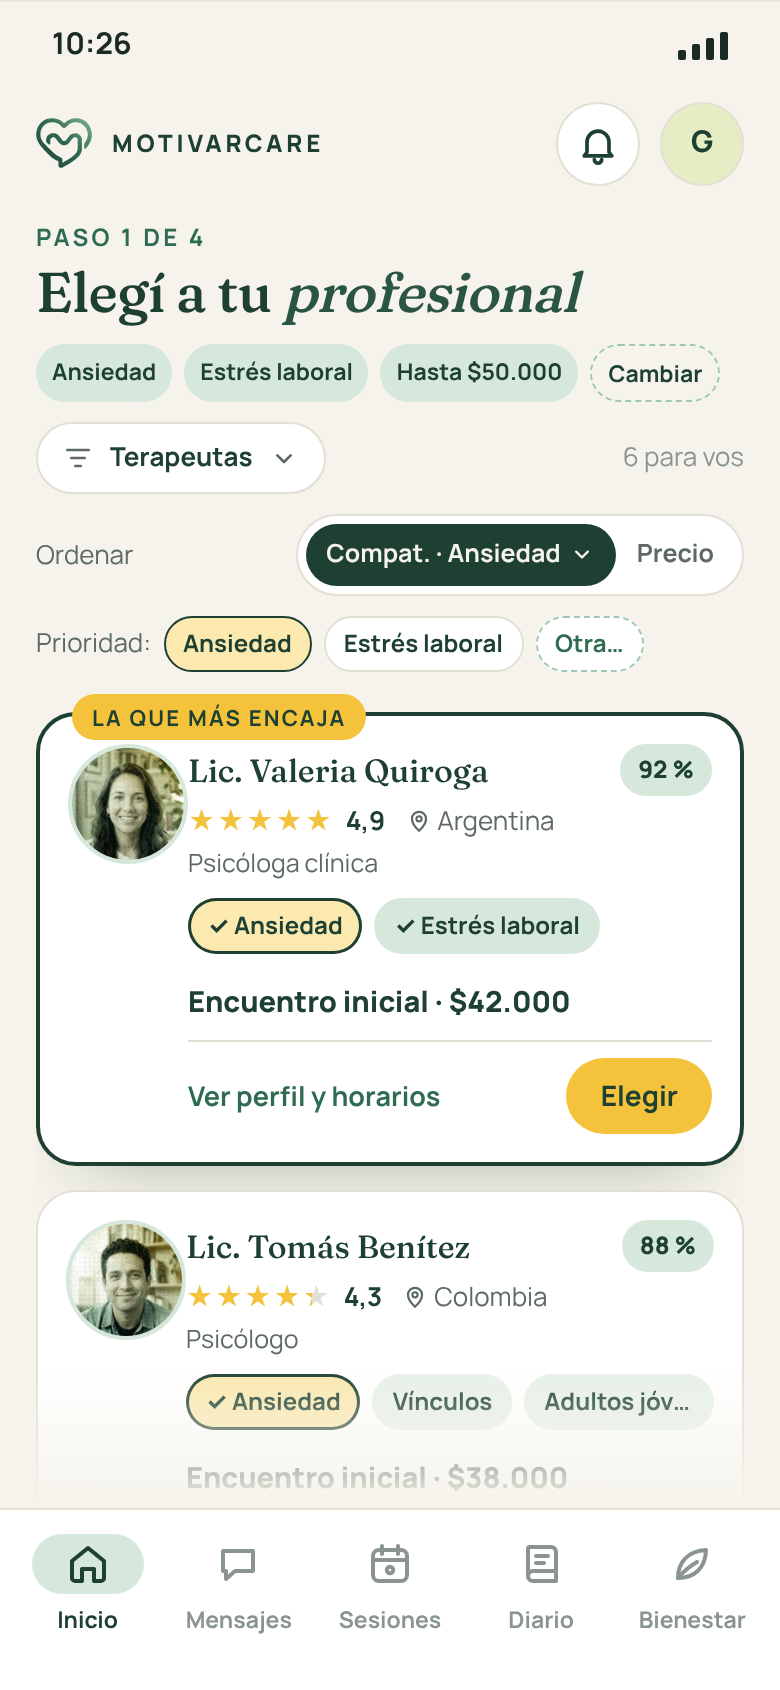
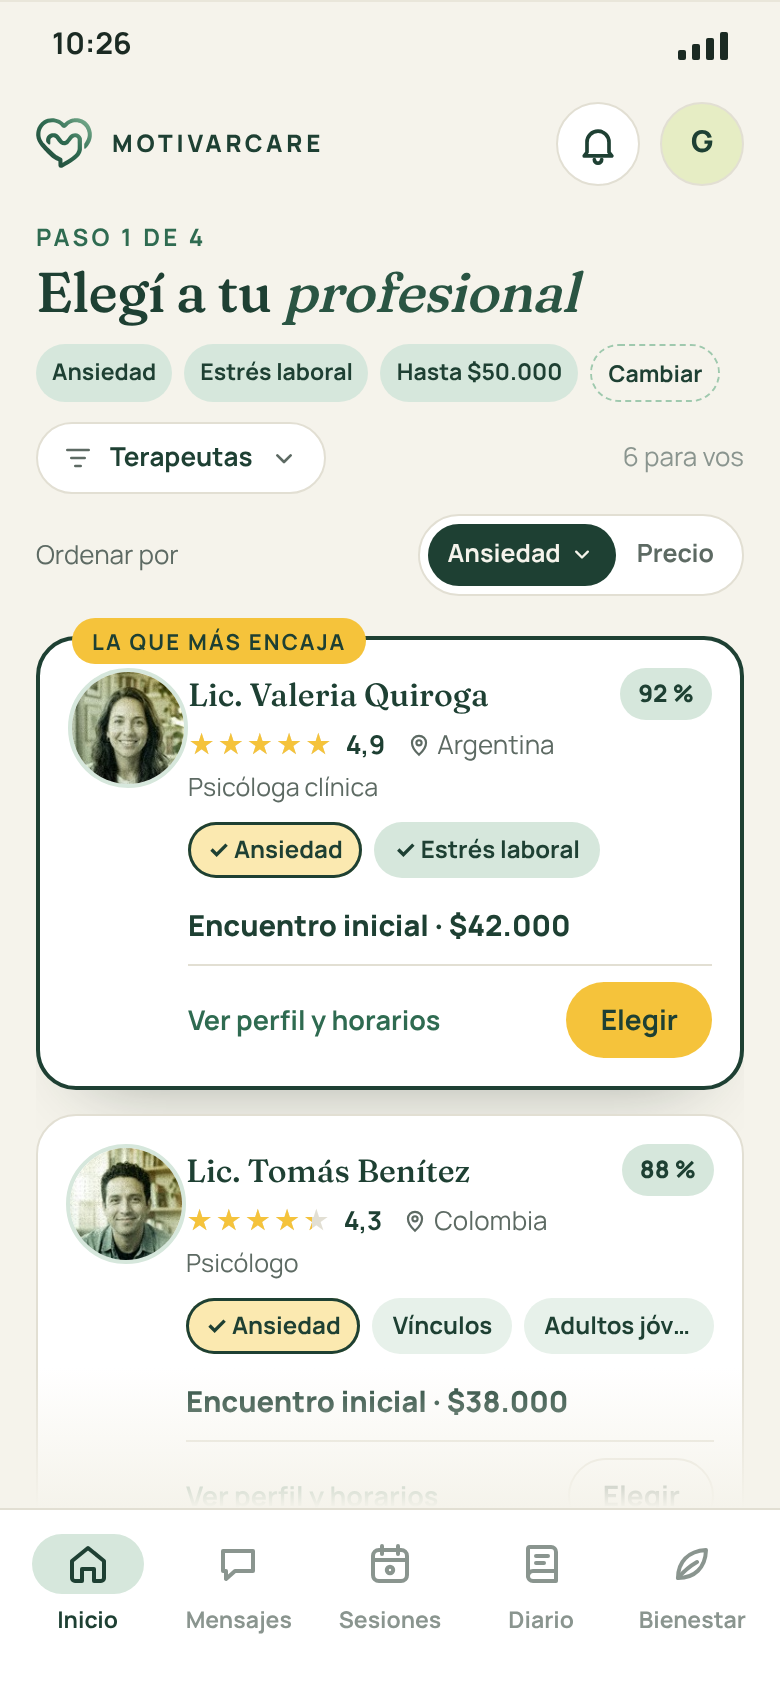
App del usuario: sin accesos directos; el control dice la especialidad
En los mockups 5 y 6 se sacan los accesos directos: el menú de
"Compatibilidad" es el único lugar para dar prioridad a una especialidad.
Por defecto dice "Compatibilidad" (con "Según todas tus respuestas"
elegido); con una especialidad elegida, dice su nombre ("Ansiedad").
En el teléfono, la etiqueta pasa a "Ordenar por".

Claude-Session: https://claude.ai/code/session_01WU1DRuLLvKJwMVuiPWLics

Changed region(s): [[0.0308, 0.3077, 0.9538, 0.8923], [0.5846, 0.8615, 0.7385, 0.8923]]

diff --git a/web/public/app-usuario/ronda-2.html b/web/public/app-usuario/ronda-2.html
@@ -1408,7 +1408,6 @@ ul.lista-simple { padding: 0; }
             <span class="orden-wrap"><span class="et-orden">Ordenar por</span><span class="el-orden"><span class="on">Compatibilidad<svg class="ico chico cl"><use href="#i-abajo"/></svg></span><span>Precio</span></span>
             </span>
           </div>
-          <div class="atajos-esp"><span class="et-orden">Dar prioridad a:</span><span class="atajo">Ansiedad</span><span class="atajo">Estrés laboral</span><span class="atajo otra">Otra…</span></div>
           <div style="position:relative"><div class="el-lista"><article class="tarjeta-pro mejor"><span class="mejor-et">La que más encaja</span><img class="avatar-pro" src="../landing/img/profesionales/valeria-quiroga.jpg" alt="" width="60" height="60">
   <div class="info">
     <div class="nombre"><b>Lic. Valeria Quiroga</b><span class="compat">92 %</span></div>
@@ -1492,8 +1491,7 @@ ul.lista-simple { padding: 0; }
     <div class="saludo" style="margin:0;gap:4px"><span class="t-fecha">Paso 1 de 4</span><h1 class="t1" style="font-size:28px">Elegí a tu <em>profesional</em></h1></div>
     <div class="el-tags" style="flex-wrap:nowrap"><span>Ansiedad</span><span>Estrés laboral</span><span>Hasta $50.000</span><span style="background:transparent;border:1.5px dashed var(--salvia-fuerte)">Cambiar</span></div>
     <div class="fila-ctl"><span class="filtro"><svg viewBox="0 0 24 24" class="ico chico"><path d="M4 6h16M7 12h10M10 18h4"/></svg><b>Terapeutas</b><svg class="ico chico"><use href="#i-abajo"/></svg></span><span class="tenue">6 para vos</span></div>
-    <div class="fila-ctl"><span class="et-orden">Ordenar</span><span class="el-orden"><span class="on">Compatibilidad<svg class="ico chico"><use href="#i-abajo"/></svg></span><span>Precio</span></span></div>
-    <div class="atajos-esp tel-atajos"><span class="et-orden">Prioridad:</span><span class="atajo">Ansiedad</span><span class="atajo">Estrés laboral</span><span class="atajo otra">Otra…</span></div>
+    <div class="fila-ctl"><span class="et-orden">Ordenar por</span><span class="el-orden"><span class="on">Compatibilidad<svg class="ico chico"><use href="#i-abajo"/></svg></span><span>Precio</span></span></div>
     <div class="el-lista-tel"><article class="tarjeta-pro mejor"><span class="mejor-et">La que más encaja</span><img class="avatar-pro" src="../landing/img/profesionales/valeria-quiroga.jpg" alt="" width="60" height="60">
   <div class="info">
     <div class="nombre"><b>Lic. Valeria Quiroga</b><span class="compat">92 %</span></div>
@@ -1540,7 +1538,7 @@ ul.lista-simple { padding: 0; }
 
 <section class="lamina">
 <h2>6 · Elegí a tu profesional en escritorio · compatibilidad con prioridad a una especialidad</h2>
-<p class="nota-r2">El mismo listado con prioridad a Ansiedad, elegida desde el menú de "Compatibilidad" (abierto) o desde los accesos directos. Sus terapeutas aparecen primero y los demás siguen debajo; el precio ordena a todos por igual.</p>
+<p class="nota-r2">El mismo listado después de elegir Ansiedad en el menú de "Compatibilidad" (abierto): el control pasa a decir "Ansiedad". Sus terapeutas aparecen primero y los demás siguen debajo. Al volver a "Según todas tus respuestas", el control vuelve a decir "Compatibilidad".</p>
 <div class="marco esc" id="r2-6-escritorio">
   <aside class="lateral">
     <div class="marca"><img src="../landing/img/logo.svg" alt="">MOTIVARCARE</div>
@@ -1567,7 +1565,7 @@ ul.lista-simple { padding: 0; }
           <div class="el-barra r2">
             <span class="filtro"><svg viewBox="0 0 24 24" class="ico chico"><path d="M4 6h16M7 12h10M10 18h4"/></svg>Mostrar: <b>Terapeutas</b><svg class="ico chico"><use href="#i-abajo"/></svg></span>
             <span class="tenue">6 terapeutas · todos con matrícula verificada</span>
-            <span class="orden-wrap"><span class="et-orden">Ordenar por</span><span class="el-orden"><span class="on">Compatibilidad · Ansiedad primero<svg class="ico chico cl"><use href="#i-abajo"/></svg></span><span>Precio</span></span>
+            <span class="orden-wrap"><span class="et-orden">Ordenar por</span><span class="el-orden"><span class="on">Ansiedad<svg class="ico chico cl"><use href="#i-abajo"/></svg></span><span>Precio</span></span>
               <div class="menu-esp">
                 <span class="menu-tit">Ordenar por compatibilidad</span>
                 <span class="op-esp"><i class="radio"></i><span><b>Según todas tus respuestas</b><small>Tiene en cuenta todo lo que nos contaste</small></span></span>
@@ -1583,7 +1581,6 @@ ul.lista-simple { padding: 0; }
               </div>
             </span>
           </div>
-          <div class="atajos-esp"><span class="et-orden">Dar prioridad a:</span><span class="atajo on">Ansiedad</span><span class="atajo">Estrés laboral</span><span class="atajo otra">Otra…</span></div>
           <div style="position:relative"><div class="el-lista"><article class="tarjeta-pro mejor"><span class="mejor-et">La que más encaja</span><img class="avatar-pro" src="../landing/img/profesionales/valeria-quiroga.jpg" alt="" width="60" height="60">
   <div class="info">
     <div class="nombre"><b>Lic. Valeria Quiroga</b><span class="compat">92 %</span></div>
@@ -1667,8 +1664,7 @@ ul.lista-simple { padding: 0; }
     <div class="saludo" style="margin:0;gap:4px"><span class="t-fecha">Paso 1 de 4</span><h1 class="t1" style="font-size:28px">Elegí a tu <em>profesional</em></h1></div>
     <div class="el-tags" style="flex-wrap:nowrap"><span>Ansiedad</span><span>Estrés laboral</span><span>Hasta $50.000</span><span style="background:transparent;border:1.5px dashed var(--salvia-fuerte)">Cambiar</span></div>
     <div class="fila-ctl"><span class="filtro"><svg viewBox="0 0 24 24" class="ico chico"><path d="M4 6h16M7 12h10M10 18h4"/></svg><b>Terapeutas</b><svg class="ico chico"><use href="#i-abajo"/></svg></span><span class="tenue">6 para vos</span></div>
-    <div class="fila-ctl"><span class="et-orden">Ordenar</span><span class="el-orden"><span class="on">Compat. · Ansiedad<svg class="ico chico"><use href="#i-abajo"/></svg></span><span>Precio</span></span></div>
-    <div class="atajos-esp tel-atajos"><span class="et-orden">Prioridad:</span><span class="atajo on">Ansiedad</span><span class="atajo">Estrés laboral</span><span class="atajo otra">Otra…</span></div>
+    <div class="fila-ctl"><span class="et-orden">Ordenar por</span><span class="el-orden"><span class="on">Ansiedad<svg class="ico chico"><use href="#i-abajo"/></svg></span><span>Precio</span></span></div>
     <div class="el-lista-tel"><article class="tarjeta-pro mejor"><span class="mejor-et">La que más encaja</span><img class="avatar-pro" src="../landing/img/profesionales/valeria-quiroga.jpg" alt="" width="60" height="60">
   <div class="info">
     <div class="nombre"><b>Lic. Valeria Quiroga</b><span class="compat">92 %</span></div>

diff --git a/06-app-usuario/historial/ronda-2.md b/06-app-usuario/historial/ronda-2.md
@@ -98,8 +98,7 @@ Cada mockup se hace en escritorio (1440 × 1024) y en teléfono (390 de ancho). 
     <p>Cómo se ve al llegar, sin cambiar nada:</p>
     <ul>
       <li>"Mostrar: Terapeutas", la única opción por ahora.</li>
-      <li>Ordenado por compatibilidad, según todas tus respuestas.</li>
-      <li>Los accesos directos para dar prioridad a una especialidad, visibles y sin ninguno elegido.</li>
+      <li>"Ordenar por: Compatibilidad", con "Según todas tus respuestas" elegido en el menú.</li>
     </ul>
     <a class="boton-ver" href="/app-usuario/ronda-2.html#r2-5-escritorio">Ver en tamaño real →</a>
   </div>
@@ -112,7 +111,7 @@ Cada mockup se hace en escritorio (1440 × 1024) y en teléfono (390 de ancho). 
     <h3>Elegí a tu profesional · con prioridad a una especialidad</h3>
     <p>Parte de la elección de la familia 2 y mantiene el panel "Lo que nos contaste", con "Cambiar mis respuestas". Suma:</p>
     <ul>
-      <li>Dos criterios de orden: <strong>compatibilidad</strong> (por defecto, según todas tus respuestas, o dando prioridad a una especialidad, cuyos terapeutas van primero, sin filtrar) y <strong>precio</strong>.</li>
+      <li>Dos criterios de orden: <strong>compatibilidad</strong> y <strong>precio</strong>. Al elegir una especialidad en el menú de compatibilidad, el control pasa a decir su nombre ("Ansiedad") y sus terapeutas van primero, sin filtrar.</li>
       <li>El filtro <strong>"Mostrar"</strong>, hoy solo con terapeutas, preparado para otros profesionales.</li>
     </ul>
     <a class="boton-ver" href="/app-usuario/ronda-2.html#r2-6-escritorio">Ver en tamaño real →</a>
@@ -209,14 +208,13 @@ Combina la familia 2 (la agenda y la sesión mandan) con la posibilidad de traba
 Toma como punto de partida la elección de profesional de la familia 2 ([Ronda #1](/06-app-usuario/historial/ronda-1/)), con la navegación de esta ronda. Es el paso 1 de la primera sesión, al que se llega desde "Ver terapeutas" en el Inicio sin profesional (mockup 3). El título es "Elegí a tu profesional": el tipo de profesional lo define el filtro "Mostrar", que por ahora solo tiene terapeutas. Son dos mockups del mismo listado: el **5**, como se ve la primera vez, sin cambiar el orden ni el filtro, y el **6**, con prioridad a una especialidad.
 
 - **"Lo que nos contaste"** se mantiene a la derecha: las respuestas del cuestionario agrupadas (qué querés trabajar, tu experiencia, tus preferencias y tu presupuesto) y "Cambiar mis respuestas". En el teléfono, las respuestas van arriba como pills, con "Cambiar".
-- **Ordenar por: Compatibilidad ▾ · Precio.** La especialidad no es un criterio aparte: es una forma de la compatibilidad.
-  - **Por defecto**, la compatibilidad tiene en cuenta todas las respuestas del cuestionario ("Según todas tus respuestas").
-  - **Dando prioridad a una especialidad** (desde el menú de "Compatibilidad"), los terapeutas que la trabajan aparecen primero, ordenados por compatibilidad, y debajo, con el separador "Otros terapeutas para vos", los demás. **No es un filtro**: nadie desaparece de la lista. El control lo dice ("Compatibilidad · Ansiedad primero") y el porcentaje de cada tarjeta no cambia.
+- **Ordenar por: Compatibilidad ▾ · Precio.** La especialidad no es un criterio aparte: es una forma de la compatibilidad, y **el menú de "Compatibilidad" es el único lugar para elegirla**.
+  - **Por defecto**, el control dice "Compatibilidad" y dentro del menú está elegido "Según todas tus respuestas".
+  - **Si la persona elige una especialidad** en el menú (solo una), el control deja de decir "Compatibilidad" y pasa a decir el nombre de la especialidad ("Ansiedad"). No hace falta aclarar "primero": la etiqueta de la izquierda ya dice "Ordenar por", no "Filtrar". Los terapeutas que la trabajan aparecen primero, ordenados por compatibilidad, y debajo, con el separador "Otros terapeutas para vos", los demás. Nadie desaparece de la lista y el porcentaje de cada tarjeta no cambia.
+  - **Al volver a "Según todas tus respuestas"**, el control vuelve a decir "Compatibilidad".
   - El menú muestra primero las especialidades de tus respuestas y después las demás.
-  - **Accesos directos:** debajo de la barra, "Dar prioridad a:" con las especialidades de tus respuestas y "Otra…", que abre el mismo menú. Hacen visible la opción sin abrir el menú.
-  - **Al ordenar por precio**, la prioridad de especialidad no se tiene en cuenta: el precio ordena a todos por igual, para que cada criterio sea simple y predecible.
-  - **Mockup 5:** "Compatibilidad" según todas tus respuestas y los accesos directos visibles, sin ninguno elegido. Se muestran desde la primera vez porque es cuando más ayudan a descubrir la opción.
-  - **Mockup 6:** "Compatibilidad · Ansiedad primero", con el menú abierto en el escritorio y el acceso directo "Ansiedad" marcado en el teléfono.
+  - **Al ordenar por precio**, la especialidad elegida no se tiene en cuenta: el precio ordena a todos por igual.
+  - **Mockup 5:** el estado por defecto. **Mockup 6:** con "Ansiedad" elegida; en el escritorio, con el menú abierto.
 - **Filtro "Mostrar":** a la izquierda, "Mostrar: Terapeutas". En esta etapa es la única opción, pero queda preparado para sumar otras categorías de profesionales (por ejemplo, nutricionistas).
 - **Tarjetas de los terapeutas,** con las reglas de esta ronda:
   - La profesión en su propia línea ("Psicóloga clínica") y las especialidades en pills, en una sola línea. Las que coinciden con tus respuestas llevan "✓" y fondo salvia; la especialidad elegida para ordenar se resalta en amarillo suave con borde.
@@ -247,3 +245,4 @@ En los mockups:
 En la primera versión del mockup 5, "Especialidad" era un tercer criterio de orden. En su estado por defecto ("todas, según tus respuestas") ordenaba igual que la compatibilidad, así que se combinaron: **la prioridad a una especialidad es una opción dentro de "Compatibilidad"**, con accesos directos debajo de la barra. Al ordenar por precio, la prioridad no se tiene en cuenta.
 - El título pasa a "Elegí a tu profesional": "Terapeutas" ya está elegido en el filtro "Mostrar", que por ahora no tiene otras opciones.
 - Se suma el **mockup 5**, el mismo listado como se ve la primera vez (sin orden ni filtro cambiados). El de la prioridad a una especialidad pasa a ser el **mockup 6**.
+- **Sin accesos directos.** Se sacan las pills "Dar prioridad a:" de los mockups 5 y 6: duplicaban el menú, y "Otra…" solo volvía a abrirlo. El menú de "Compatibilidad" es el único lugar para dar prioridad a una especialidad. Con una especialidad elegida, el control dice su nombre ("Ansiedad"); al volver a "Según todas tus respuestas", vuelve a decir "Compatibilidad".
